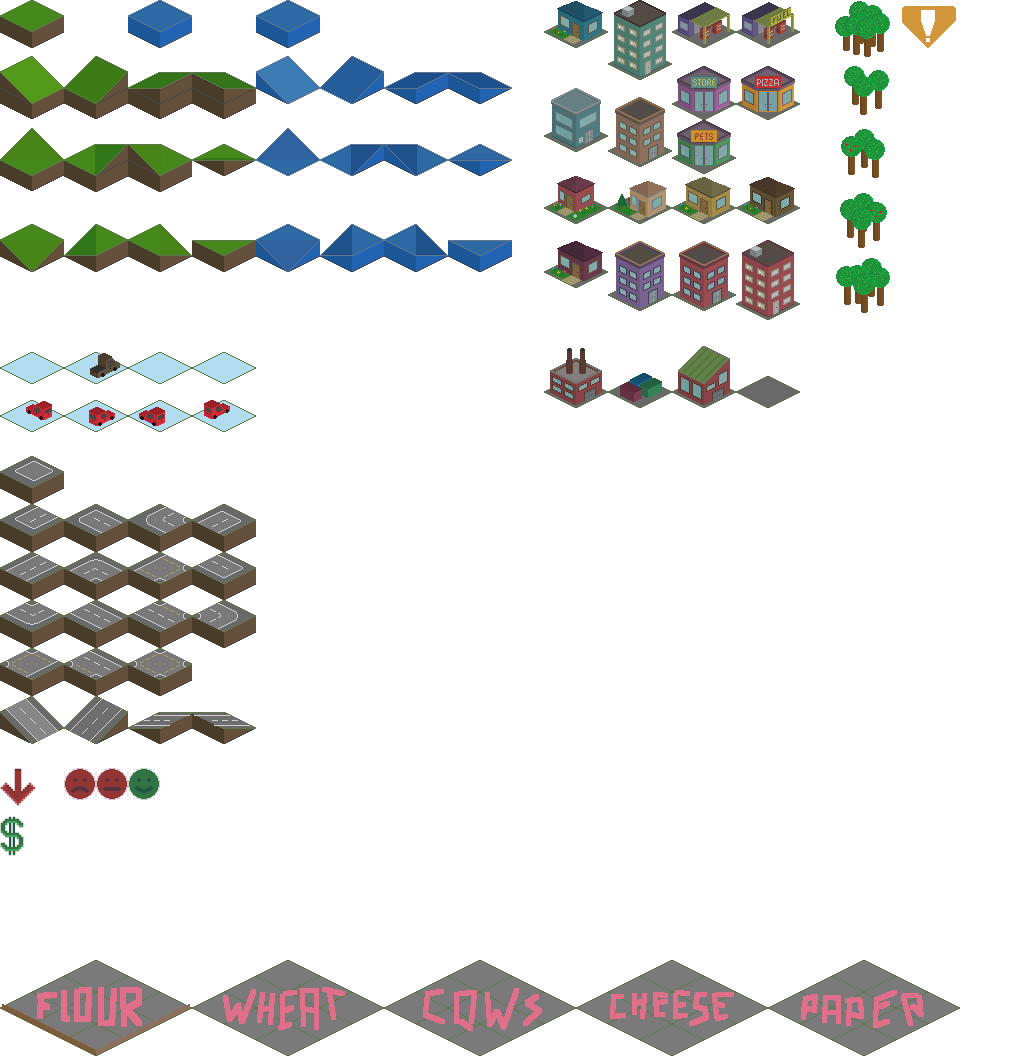
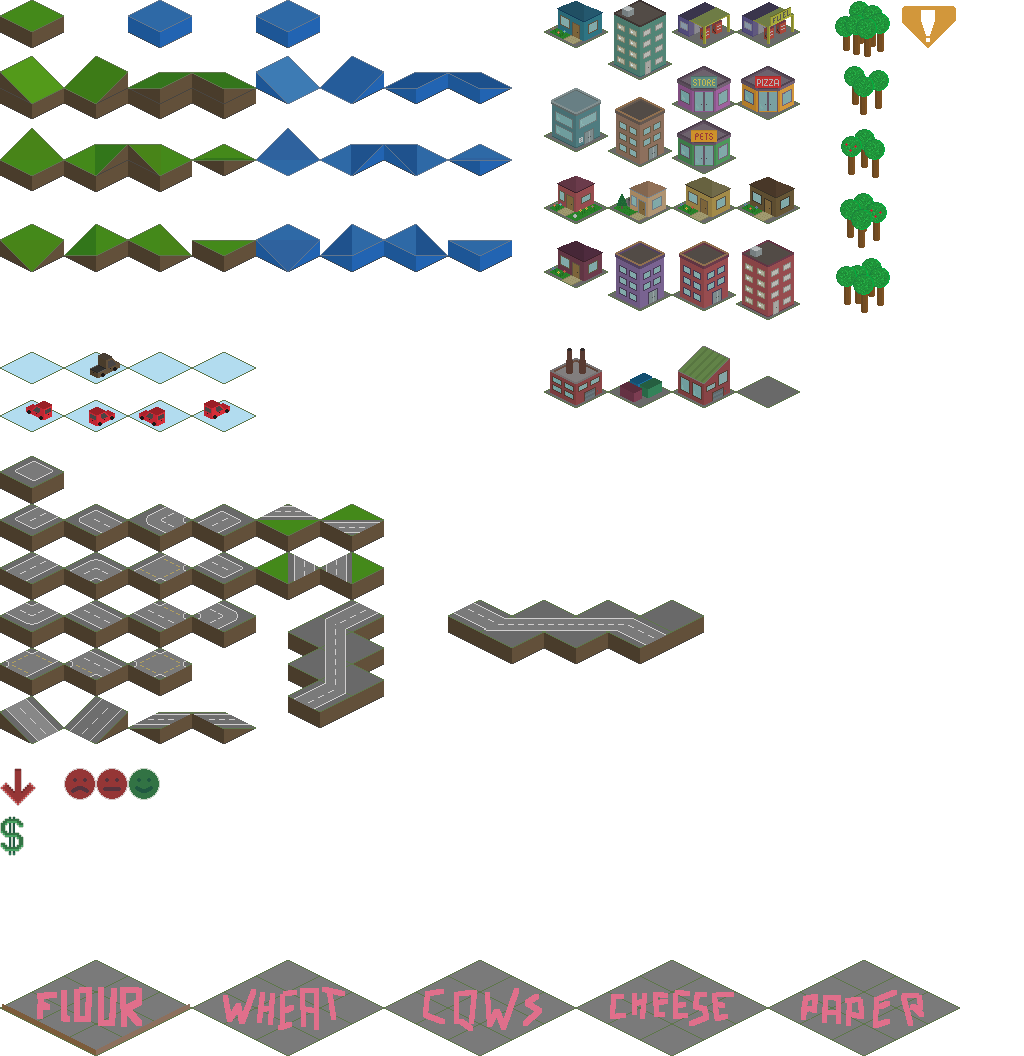
Diagonal roads added. Road graphics details reworked.

Changed region(s): [[0.25, 0.4688, 0.375, 0.6875], [0.4375, 0.5625, 0.6875, 0.625]]

diff --git a/World/Generation/MapGenerator.cs b/World/Generation/MapGenerator.cs
@@ -80,10 +80,33 @@ namespace Industry.World.Generation
                 }
             }
 
-        }               
+        }
 
+        //Dictionary to indicated to which tile diagonals are supposed to be connected.
+        Dictionary<int, int> connectedTo = new Dictionary<int, int>()
+                    {
+                        { 9,  6 },
+                        { 6,  9 },
+                        { 3, 12 },
+                        { 12, 3 }
+                    };
+
+        //Dictionary translating the diagonal road directions to the special indexes of the actual diagonals.
+        Dictionary<int, int> changeTo = new Dictionary<int, int>()
+                    {
+                        { 3, 16 },
+                        { 6, 17 },
+                        { 9, 18 },
+                        {12, 19 }
+                    };
+
+
+        /// <summary>
+        /// Auto tiling the onTopIndex for the road tiles. Based on the four directional neighbour tiles calculate the roadDir index.
+        /// </summary>
         private void CalculateCorrectRoadTile()
         {
+            //classic auto tile by giving the directional neighbour roads power of two values, result is a road dir index between 0 and 15.
             for (int x = 0; x < param.size.X; x++)
             {
                 for (int y = 0; y < param.size.Y; y++)
@@ -114,15 +137,49 @@ namespace Industry.World.Generation
                                 slope == 9  && roadDir == 10 ||
                                 slope == 3  && roadDir == 5  ))
                         {
+                            //on these slopes roads can not be placed. And it should not happen in the first place.
                             t.type = TileType.Nothing;
                             continue;
                         }                                           
-                    }
-
+                    }                                     
 
                     t.onTopIndex = roadDir;
                 }
             }
+
+            //Special case: check if a curve tile could be a diagonal tile.
+            for (int x = 0; x < param.size.X; x++)
+            {
+                for (int y = 0; y < param.size.Y; y++)
+                {
+                    if (tiles[x, y].type != TileType.Road)
+                        continue;
+
+                    int roadDir = tiles[x, y].onTopIndex;
+                    
+                    if (roadDir == 9 || roadDir == 6 || roadDir == 3 || roadDir == 12)
+                    {                        
+                        int expectedConnectionRoadDir1 = connectedTo[roadDir];
+                        int expectedConnectionRoadDir2 = changeTo[expectedConnectionRoadDir1];
+                        int count = 0;
+                        foreach (Point p in GenHelper.IterateNeighboursFourDir(x, y))
+                        {
+                            if (tiles[p.X, p.Y].type == TileType.Road && 
+                                (tiles[p.X, p.Y].onTopIndex == expectedConnectionRoadDir1 || 
+                                tiles[p.X, p.Y].onTopIndex == expectedConnectionRoadDir2))
+                            {
+                                count += 1;                                
+                            }
+                        }
+                        //if one or two tiles with expected road dir, change the road.
+                        if (count == 1 || count == 2)
+                        {
+                            tiles[x,y].onTopIndex = changeTo[roadDir];
+                        }
+                    }
+                }
+            }
+
         }       
 
     }

diff --git a/World/Tileset.cs b/World/Tileset.cs
@@ -101,8 +101,7 @@ namespace Industry.World
             }
 
             tiles = def.SelectNodes("roads/t");
-            roadSprites = new Dictionary<Tuple<int, int>, Sprite>(20);
-            //sprites[(int)TileType.Road] = new Sprite[16];
+            roadSprites = new Dictionary<Tuple<int, int>, Sprite>(20);            
             c = 0;
             foreach (XmlNode t in tiles)
             {
@@ -164,7 +163,7 @@ namespace Industry.World
 
         public Sprite GetRoadSprite(int roadDir, int slope)
         {
-            Debug.Assert(roadDir >= 0 && roadDir < 16 && (slope == 0 || slope == 3 || slope == 6 || slope == 9 || slope == 12));
+            Debug.Assert(roadDir >= 0 && roadDir < 20 && (slope == 0 || slope == 3 || slope == 6 || slope == 9 || slope == 12));
             return roadSprites[new Tuple<int, int>(slope, roadDir)];
         }
 

diff --git a/Scenes/MapScene.cs b/Scenes/MapScene.cs
@@ -328,7 +328,7 @@ namespace Industry.Scenes
             {
                 Point p = mouseOverTile.coord;
                 string city = mouseOverTile.city != null ? mouseOverTile.city.Name : "";
-                return $"({p.X},{p.Y}): " + mouseOverTile.type + "; " + city;
+                return $"({p.X},{p.Y}): {mouseOverTile.type}, {mouseOverTile.onTopIndex}; {city}";
             }
             else
                 return "";
